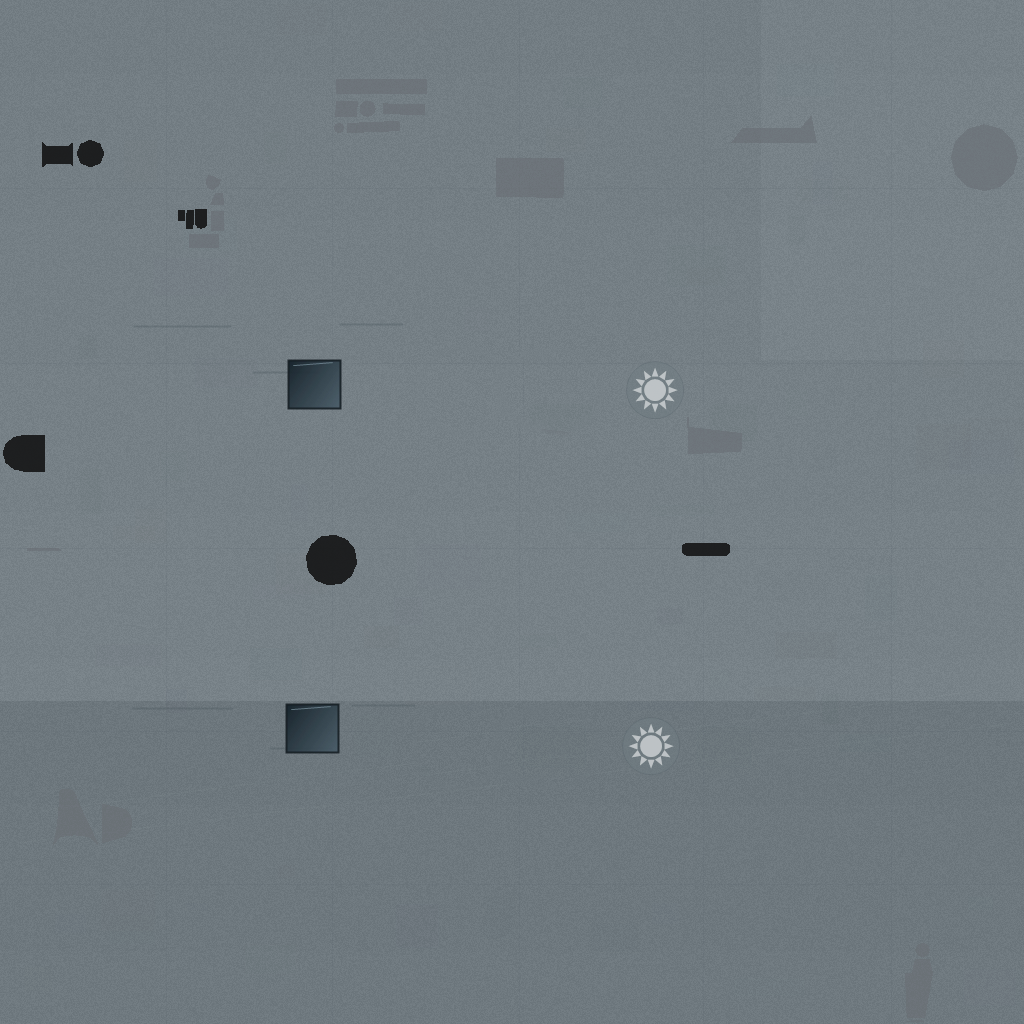
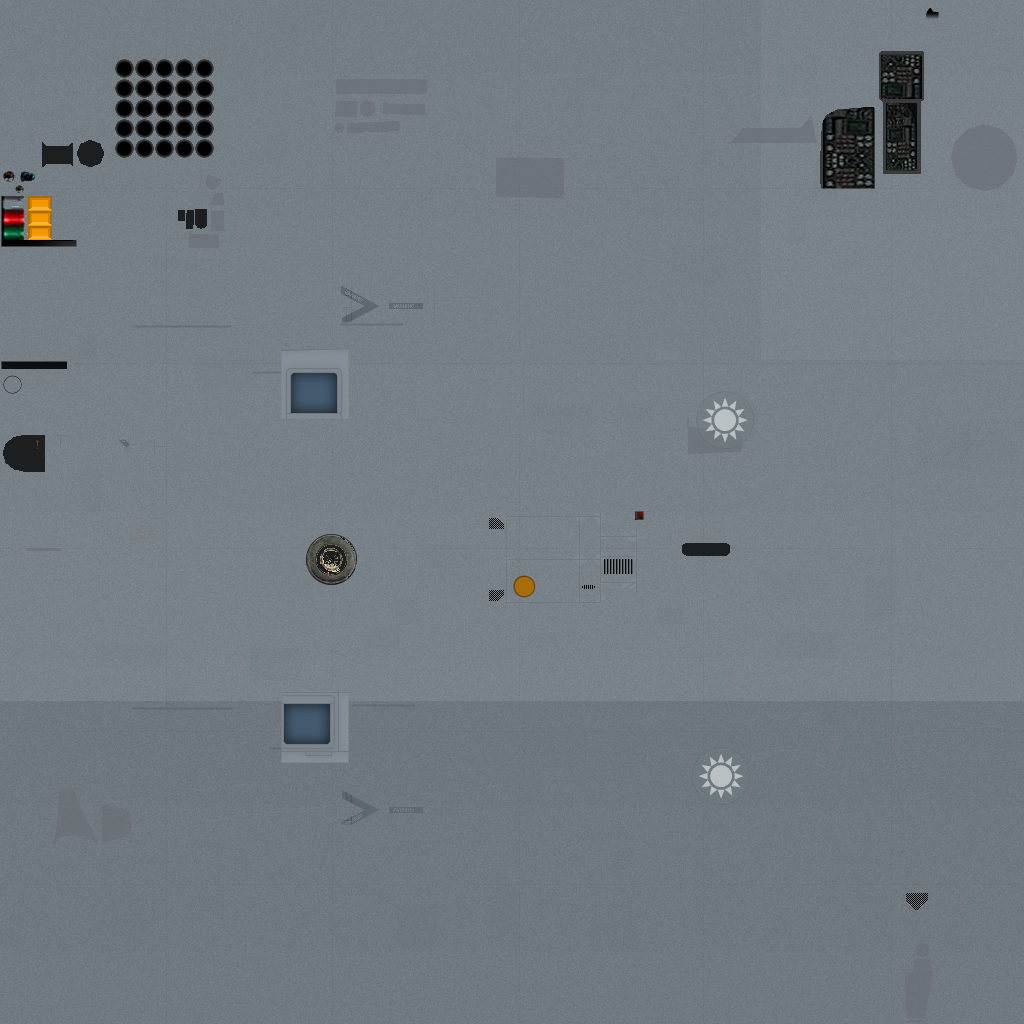
Restore S-70CM livery details

diff --git a/reference/rocn/s-70cm_livery_palette.md b/reference/rocn/s-70cm_livery_palette.md
@@ -14,8 +14,8 @@ This livery source is built for the workshop SH-60 mesh used as the current ROCN
 
 | Layer | Purpose |
 | --- | --- |
-| 02 Aft of rear wheel ROCN roundels | Editable corrected national roundel layer, placed aft of the rear landing gear on both fuselage sides |
-| 01 Livery base no roundels | Flattened livery base without roundels |
+| 02 Restored details and aft-lower roundels | Masked detail restoration plus ROCN roundels moved aft and lower |
+| 01 ROCN gray base | Flattened gray fuselage base |
 
 ## Texture Regions
 
@@ -26,10 +26,12 @@ This livery source is built for the workshop SH-60 mesh used as the current ROCN
 | Wheels and landing gear | Rubber tires and metal struts | Rubber `#101316`; metal `#7A858A` |
 | Side door glass | Smoked cabin-door windows | Deep glass `#121E26`; highlight `#879EAA` |
 | Low-vis ROCN roundels | Low-visibility ROC emblem with circular field, 12 separate broad triangular rays, larger center circle, and visible field gaps | Disc `#707E84`; outline `#505C64`; sun `#D2D8DA` |
+| Restored original details | Cockpit panels, instrument colors, sonobuoy tubes, chaff/flare colors, belly ports, vents, wheel hub, and warning/stencil marks from the workshop author texture | Original dark/color detail pixels only |
 
 ## Notes
 
 - No fuselage serial number is painted in this version.
 - The roundel follows the ROC emblem layout from the provided reference: a circular field, 12 separate broad rays, and a larger central circle.
-- The roundel placement is moved aft of the rear landing gear toward the tail-boom root on both fuselage sides.
+- The roundel placement is moved aft and lower, behind the rear landing gear toward the tail-boom root on both fuselage sides.
+- Original author texture details are restored with a dark/color mask so functional markings remain visible without bringing back US NAVY titles or US national insignia.
 - The side door glass is painted on the diffuse texture because the workshop SH-60 side-door window is part of the main fuselage UV rather than the separate canopy material.